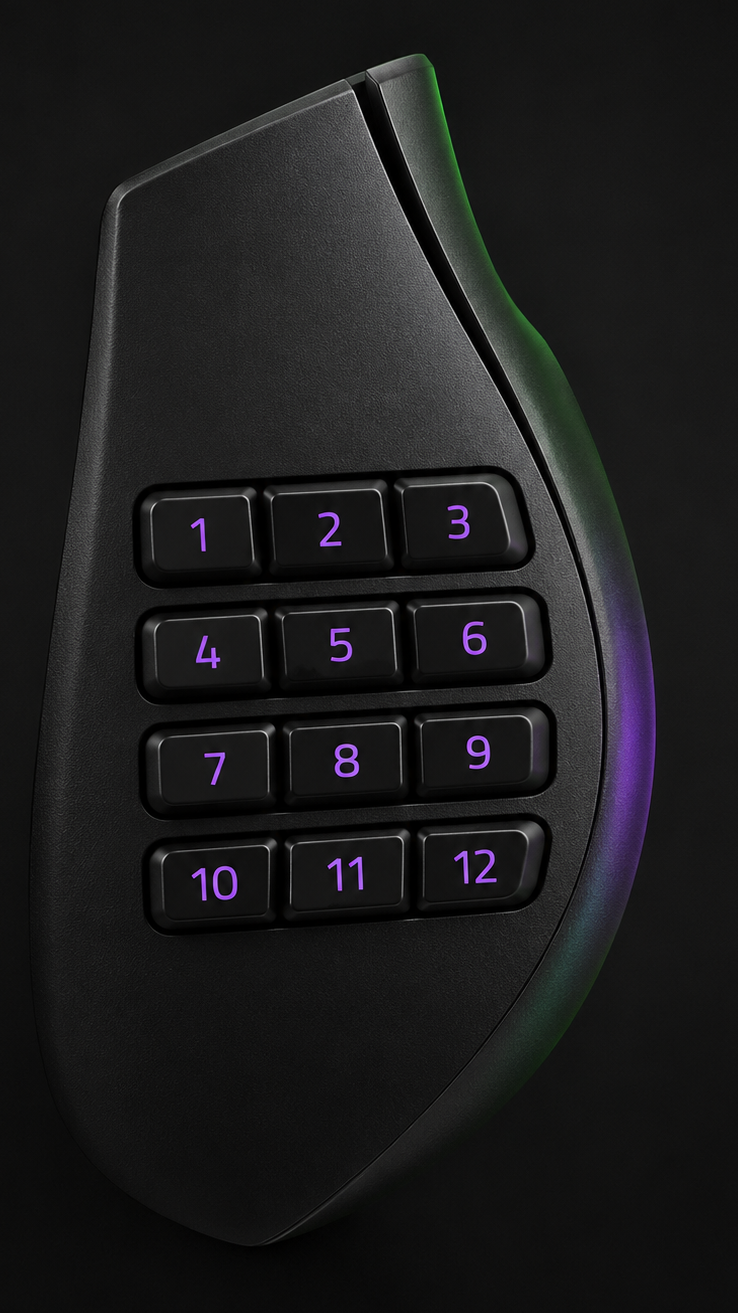
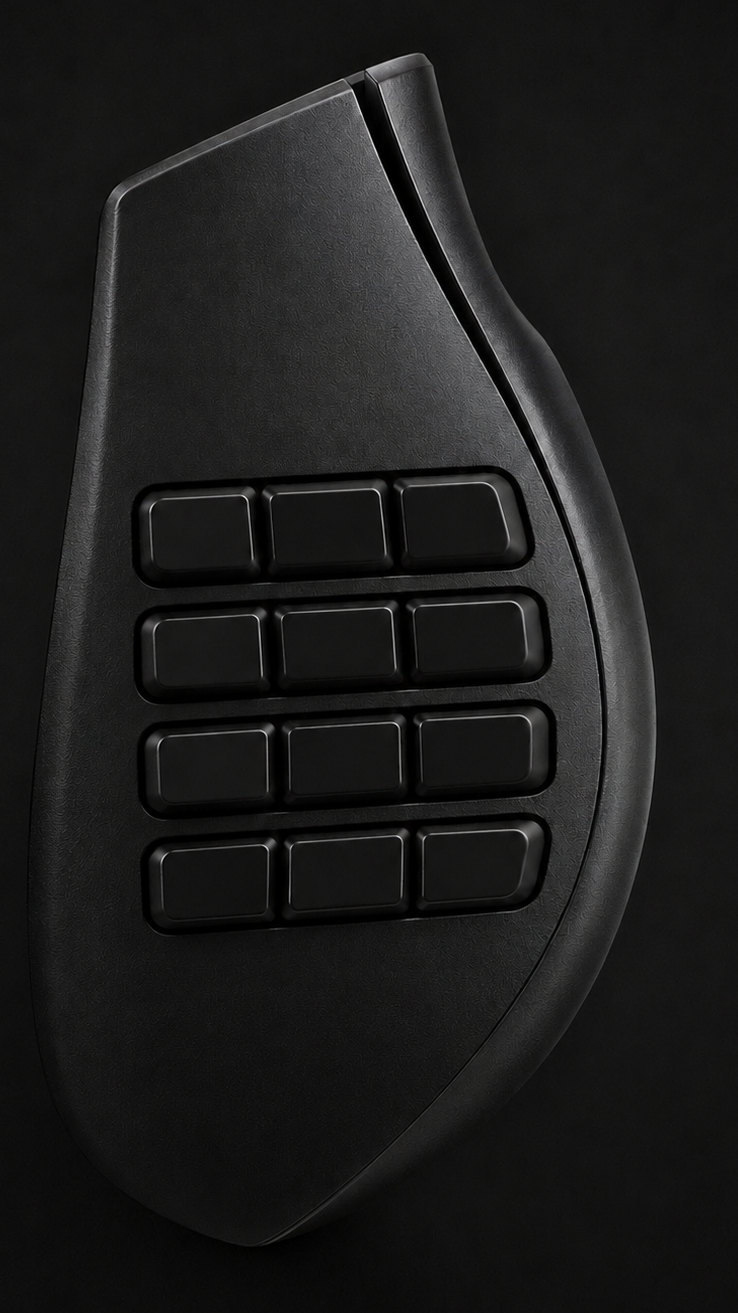
feat(dashboard): theme-native stage - blank-key grayscale render + accent LED and labels
Swap the stage asset for the user''s AI-edited version of the same render: keycaps
blank, lighting neutral grayscale (verified: max channel spread 6/255). What the photo
no longer bakes in, the app now draws in theme resources:

- key numerals rendered on the blank caps (TextSecondary, TextPrimary when highlighted)
- the hardware''s LED side-strip drawn as a two-stroke accent glow following the right
  cheek (path anchored to the shell edge measured from the asset pixels)

Hit grid recalibrated to the edit''s regenerated caps (pitch 44.3x40.5, -1.5 deg,
keys 40x29). The whole stage now recolors with every theme switch.

Claude-Session: https://claude.ai/code/session_01GBbUfDK4C7rtqmw2sR638s

diff --git a/src/NagaBatteryTray/Ui/Dashboard/MouseStageView.xaml b/src/NagaBatteryTray/Ui/Dashboard/MouseStageView.xaml
@@ -179,18 +179,29 @@
         </Image>
         <Ellipse Canvas.Left="35" Canvas.Top="90" Width="180" Height="280"
                  Fill="{DynamicResource App.GlowSoft}" IsHitTestVisible="False"/>
-        <!-- interactive hit areas over the render's printed keys (1 2 3 / 4 5 6 / 7 8 9 /
-             10 11 12): invisible at rest, accent ring + wash on hover/capture -->
-        <Canvas Canvas.Left="49.9" Canvas.Top="157.8" Width="133" Height="158"
+        <!-- LED side-strip: the render is neutral grayscale, so the hardware's light ring is
+             drawn here in the live theme accent, following the right cheek of the shell -->
+        <Path StrokeThickness="8" Stroke="{DynamicResource App.Accent}" Opacity="0.1"
+              StrokeStartLineCap="Round" StrokeEndLineCap="Round" IsHitTestVisible="False"
+              Data="M 174,104 C 190,128 203,155 211,184 C 217,215 220,240 218,266
+                    C 216,290 208,318 196,340 C 190,350 184,356 176,360"/>
+        <Path StrokeThickness="3" Stroke="{DynamicResource App.Accent}" Opacity="0.3"
+              StrokeStartLineCap="Round" StrokeEndLineCap="Round" IsHitTestVisible="False"
+              Data="M 174,104 C 190,128 203,155 211,184 C 217,215 220,240 218,266
+                    C 216,290 208,318 196,340 C 190,350 184,356 176,360"/>
+        <!-- interactive keys over the render's blank keycaps (1 2 3 / 4 5 6 / 7 8 9 /
+             10 11 12): the render carries no numerals, so labels are drawn here in theme
+             colors; accent ring + wash on hover/capture -->
+        <Canvas Canvas.Left="49.4" Canvas.Top="154.3" Width="133" Height="162"
                 RenderTransformOrigin="0.5,0.5">
-          <Canvas.RenderTransform><RotateTransform Angle="-3.5"/></Canvas.RenderTransform>
+          <Canvas.RenderTransform><RotateTransform Angle="-1.5"/></Canvas.RenderTransform>
           <ItemsControl x:Name="GridKeys">
             <ItemsControl.ItemsPanel>
               <ItemsPanelTemplate><UniformGrid Columns="3"/></ItemsPanelTemplate>
             </ItemsControl.ItemsPanel>
             <ItemsControl.ItemTemplate>
               <DataTemplate>
-                <Border Width="40" Height="27" Margin="2.15,6.25" CornerRadius="6"
+                <Border Width="40" Height="29" Margin="2.15,5.75" CornerRadius="6"
                         RenderTransformOrigin="0.5,0.5"
                         AutomationProperties.Name="{Binding Label, StringFormat=Button {0}}"
                         MouseEnter="OnKeyEnter" MouseLeave="OnKeyLeave"
@@ -213,6 +224,19 @@
                       </Style.Triggers>
                     </Style>
                   </Border.Style>
+                  <TextBlock Text="{Binding Label}" FontSize="12" FontWeight="SemiBold"
+                             HorizontalAlignment="Center" VerticalAlignment="Center">
+                    <TextBlock.Style>
+                      <Style TargetType="TextBlock">
+                        <Setter Property="Foreground" Value="{DynamicResource App.TextSecondary}"/>
+                        <Style.Triggers>
+                          <DataTrigger Binding="{Binding IsHighlighted}" Value="True">
+                            <Setter Property="Foreground" Value="{DynamicResource App.TextPrimary}"/>
+                          </DataTrigger>
+                        </Style.Triggers>
+                      </Style>
+                    </TextBlock.Style>
+                  </TextBlock>
                 </Border>
               </DataTemplate>
             </ItemsControl.ItemTemplate>